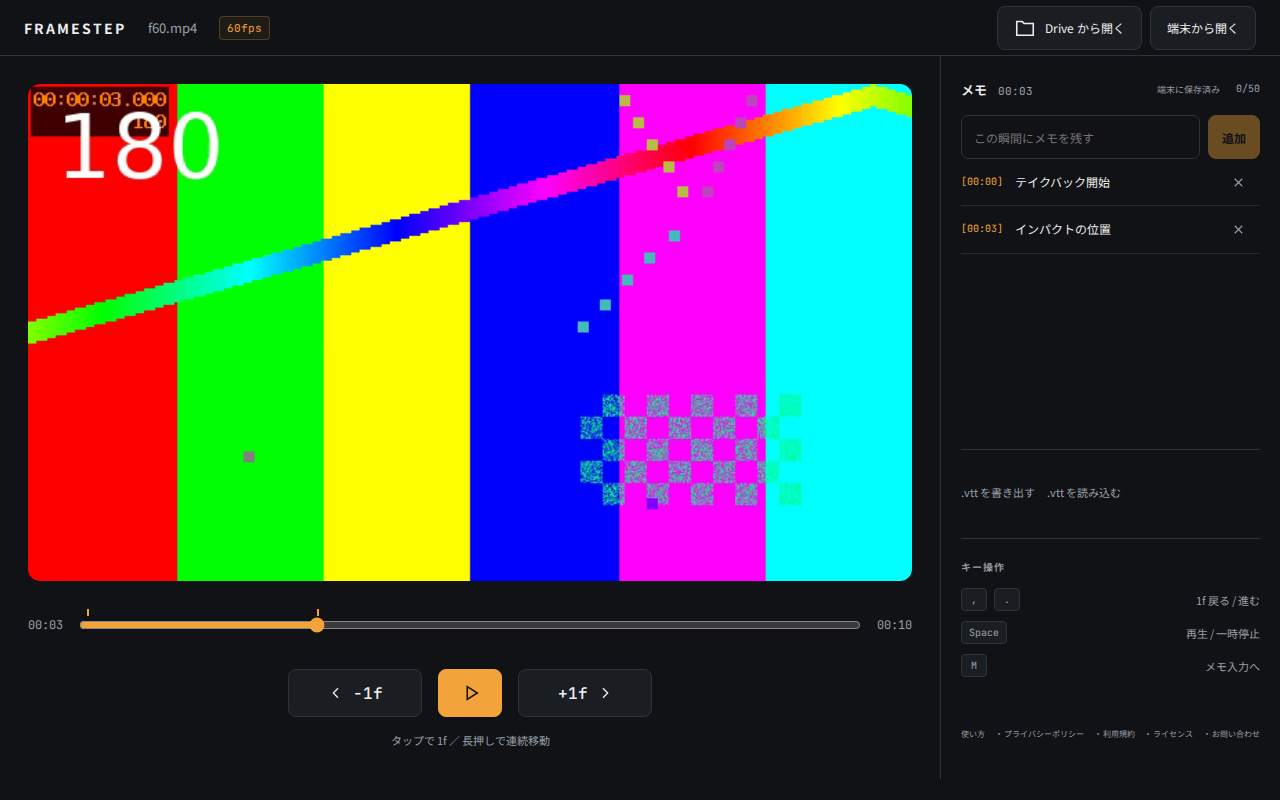
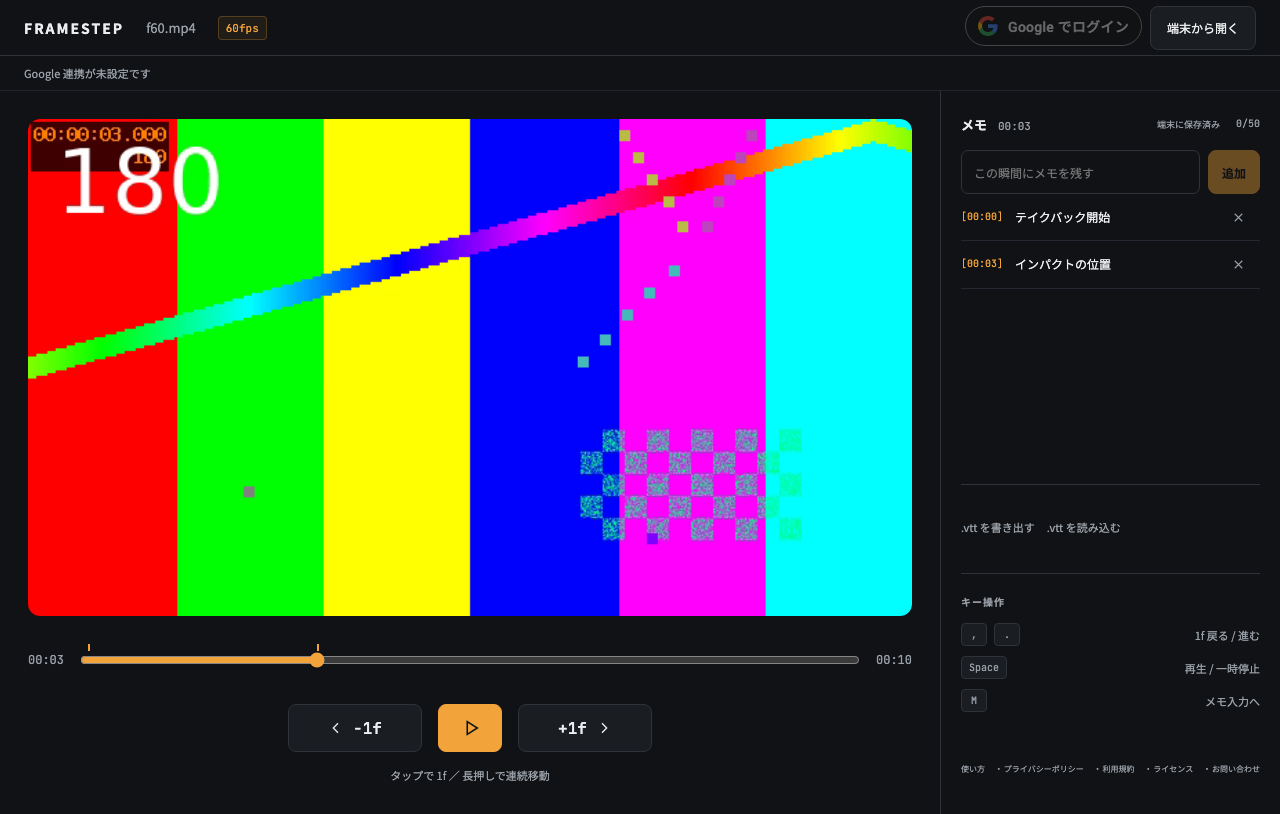
OAuth審査指摘の検証テストV1〜V7とスクリーンショットを追加

diff --git a/tests/e2e/verification.spec.ts b/tests/e2e/verification.spec.ts
@@ -1,0 +1,314 @@
+import { test, expect, type Page } from "@playwright/test";
+import { mkdir, readFile, readdir } from "node:fs/promises";
+import { siteInfo } from "../../src/shared/siteInfo";
+
+const staticPaths = ["/", "/help", "/privacy", "/terms", "/licenses"];
+const oldUrl = "frame-step-player.vercel.app";
+const newUrl = "https://frame-step-player.win";
+// 「Google 」が前に付かない単独の「Drive」
+const bareDrive = /(?<!Google )\bDrive\b/;
+
+async function visibleText(page: Page) {
+  const text = await page.locator("body").innerText();
+  const labels = await page
+    .locator("[aria-label]")
+    .evaluateAll((els) => els.map((el) => el.getAttribute("aria-label")));
+  return text + "\n" + labels.join("\n");
+}
+function noBareDrive(text: string, where: string) {
+  const hits = text
+    .split("\n")
+    .filter((line) => bareDrive.test(line))
+    .map((line) => line.trim());
+  expect(hits, where).toEqual([]);
+}
+
+test("V1: JSなしのトップに Google ユーザーデータの説明と /privacy へのリンク", async ({
+  browser,
+  baseURL,
+}) => {
+  const context = await browser.newContext({
+    javaScriptEnabled: false,
+    baseURL,
+  });
+  const page = await context.newPage();
+  await page.goto("/");
+  const main = page.locator("main");
+  await expect(
+    main.getByRole("heading", {
+      name: "Google ユーザーデータの利用について",
+      exact: true,
+    }),
+  ).toBeVisible();
+  const section = page.locator("#google-user-data");
+  await expect(section).toContainText(
+    "https://www.googleapis.com/auth/drive.file",
+  );
+  await expect(section).toContainText("このアプリで使用する特定のファイルのみ");
+  await expect(section.locator('a[href="/privacy"]')).toHaveCount(1);
+  await expect(main).toContainText("できること");
+  await expect(main.locator('a[href="/help"]').first()).toBeVisible();
+  await expect(
+    main.getByRole("heading", { name: "How we use Google user data" }),
+  ).toBeVisible();
+  await context.close();
+});
+
+test("V2: JSなしの /privacy にデータ種類の表・保存期間・保護・Limited Use", async ({
+  browser,
+  baseURL,
+}) => {
+  const context = await browser.newContext({
+    javaScriptEnabled: false,
+    baseURL,
+  });
+  const page = await context.newPage();
+  await page.goto("/privacy");
+  const main = page.locator("main");
+  const table = main.locator("table").first();
+  await expect(table).toBeVisible();
+  for (const row of [
+    "OAuth アクセストークン",
+    "選んだ動画のメタデータ",
+    "選んだ動画の中身",
+    "メモファイル",
+    "アプリが作ったフォルダ",
+  ])
+    await expect(table).toContainText(row);
+  await expect(main.locator("table")).toHaveCount(2);
+  await expect(
+    main.getByRole("heading", { name: "4. 保存場所と保存期間" }),
+  ).toBeVisible();
+  await expect(
+    main.getByRole("heading", { name: "5. データの保護" }),
+  ).toBeVisible();
+  await expect(main).toContainText("HTTPS");
+  await expect(main).toContainText(
+    "メールアドレス、氏名、プロフィール写真、連絡先",
+  );
+  // Limited Use の一文が「取得・利用する情報」の直後（表より前）にある
+  const callout = main.locator(".policy-callout").first();
+  await expect(callout).toContainText("Limited Use requirements");
+  expect(
+    await callout.evaluate(
+      (el, t) =>
+        !!(el.compareDocumentPosition(t) & Node.DOCUMENT_POSITION_FOLLOWING),
+      await table.elementHandle(),
+    ),
+  ).toBe(true);
+  await expect(main).toContainText(
+    "最終改定日：" + siteInfo.privacyRevisedDate,
+  );
+  await expect(main).toContainText("削除の対象となるデータはありません");
+  await context.close();
+});
+
+test("V3: ログインボタンは公式 G ロゴと文言のみ、直上にプライバシー通知", async ({
+  page,
+}) => {
+  await page.goto("/");
+  const button = page.getByRole("button", {
+    name: "Google でログイン",
+    exact: true,
+  });
+  await expect(button).toHaveCount(1);
+  await expect(button).toHaveText("Google でログイン");
+  const info = await button.evaluate((el) => {
+    const svgs = el.querySelectorAll("svg");
+    const style = getComputedStyle(el);
+    return {
+      svgCount: svgs.length,
+      imgCount: el.querySelectorAll("img").length,
+      fills: [...el.querySelectorAll("svg path")].map((p) =>
+        p.getAttribute("fill"),
+      ),
+      testId: svgs[0]?.getAttribute("data-testid"),
+      background: style.backgroundColor,
+      border: style.borderTopColor,
+      color: style.color,
+      height: style.height,
+      radius: style.borderTopLeftRadius,
+      fontSize: style.fontSize,
+      fontWeight: style.fontWeight,
+      prevClass: el.previousElementSibling?.className,
+      prevPrivacyLink:
+        el.previousElementSibling?.querySelector('a[href="/privacy"]')
+          ?.textContent,
+    };
+  });
+  expect(info).toMatchObject({
+    svgCount: 1,
+    imgCount: 0,
+    fills: ["#EA4335", "#4285F4", "#FBBC05", "#34A853", "none"],
+    testId: "google-g-logo",
+    background: "rgb(19, 19, 20)",
+    border: "rgb(142, 145, 143)",
+    color: "rgb(227, 227, 227)",
+    height: "40px",
+    radius: "20px",
+    fontSize: "14px",
+    fontWeight: "500",
+    prevClass: "privacy-notice",
+    prevPrivacyLink: "プライバシーポリシー",
+  });
+  await expect(page.locator(".privacy-notice")).toContainText(
+    "このアプリは、あなたが選んだ Google ドライブの動画と、アプリが作るメモファイル（.memo.vtt）にだけアクセスします。データは運営者のサーバーに送られません。",
+  );
+  // 未ログインでは「Google ドライブから開く」を出さない
+  await expect(
+    page.getByRole("button", { name: "Google ドライブから開く" }),
+  ).toHaveCount(0);
+  // 最初の画面にも Google ユーザーデータの要点とリンクを表示
+  await expect(
+    page.getByRole("heading", { name: "Google ユーザーデータの利用について" }),
+  ).toBeVisible();
+});
+
+test("V3: ログイン後は「Google ドライブから開く」を表示", async ({ page }) => {
+  await page.route("https://www.googleapis.com/**", (route) =>
+    route.fulfill({ status: 404, body: "{}" }),
+  );
+  await page.goto("/");
+  await page.evaluate(() =>
+    window.__framestep!.openDrive({ fileId: "none", token: "mock-token" }),
+  );
+  await expect(
+    page.getByRole("button", { name: "Google ドライブから開く" }).first(),
+  ).toBeVisible();
+  await expect(
+    page.getByRole("button", { name: "Google でログイン" }),
+  ).toHaveCount(0);
+  noBareDrive(await visibleText(page), "ログイン後の最初の画面");
+});
+
+test("V4: 静的ページ・最初の画面に単独の「Drive」が無い", async ({
+  browser,
+  baseURL,
+  page,
+}) => {
+  const context = await browser.newContext({
+    javaScriptEnabled: false,
+    baseURL,
+  });
+  const staticPage = await context.newPage();
+  for (const path of staticPaths) {
+    await staticPage.goto(path);
+    noBareDrive(await visibleText(staticPage), path);
+    expect(await staticPage.title()).not.toMatch(bareDrive);
+    expect(
+      await staticPage
+        .locator('meta[name="description"]')
+        .getAttribute("content"),
+    ).not.toMatch(bareDrive);
+  }
+  await context.close();
+  await page.goto("/");
+  noBareDrive(await visibleText(page), "最初の画面");
+  noBareDrive(await readFile("README.md", "utf8"), "README.md");
+  // 画面のソース中の文字列リテラル・JSX テキスト（識別子・コメントは除く）
+  for (const dir of [
+    "src/app",
+    "src/features/selection",
+    "src/features/drive",
+    "src/shared",
+  ]) {
+    for (const file of await readdir(dir)) {
+      if (!/\.tsx?$/.test(file)) continue;
+      const source = (await readFile(dir + "/" + file, "utf8"))
+        .replace(/\/\*[\s\S]*?\*\//g, "")
+        .replace(/^\s*\/\/.*$/gm, "");
+      const literals = [
+        ...source.matchAll(/"([^"\n]*)"|`([^`]*)`|>([^<>{}]+)</g),
+      ].map((m) => m[1] ?? m[2] ?? m[3]);
+      noBareDrive(literals.join("\n"), dir + "/" + file);
+    }
+  }
+});
+
+test("V5: 全静的ページと README に商標の表記", async ({ browser, baseURL }) => {
+  const context = await browser.newContext({
+    javaScriptEnabled: false,
+    baseURL,
+  });
+  const page = await context.newPage();
+  for (const path of staticPaths) {
+    await page.goto(path);
+    const footer = page.locator("footer.site-footer");
+    await expect(footer, path).toContainText(siteInfo.trademark);
+    await expect(footer, path).toContainText(siteInfo.trademarkEn);
+  }
+  await context.close();
+  const readme = await readFile("README.md", "utf8");
+  expect(readme.trimEnd().endsWith(siteInfo.trademarkEn)).toBe(true);
+  expect(readme).toContain(siteInfo.trademark);
+});
+
+test("V5: React の最初の画面のフッターにも商標の表記", async ({ page }) => {
+  await page.goto("/");
+  const footer = page.locator("footer.site-footer");
+  await expect(footer).toContainText(siteInfo.trademark);
+  await expect(footer).toContainText(siteInfo.trademarkEn);
+});
+
+test("V7: 公開 URL は frame-step-player.win で vercel.app が残っていない", async ({
+  browser,
+  baseURL,
+}) => {
+  expect(siteInfo.siteUrl).toBe(newUrl);
+  const context = await browser.newContext({
+    javaScriptEnabled: false,
+    baseURL,
+  });
+  const page = await context.newPage();
+  for (const path of staticPaths) {
+    await page.goto(path);
+    const html = await page.content();
+    expect(html, path).not.toContain(oldUrl);
+    await expect(page.locator('link[rel="canonical"]')).toHaveAttribute(
+      "href",
+      newUrl + (path === "/" ? "" : path),
+    );
+  }
+  await context.close();
+  const readme = await readFile("README.md", "utf8");
+  expect(readme).not.toContain(oldUrl);
+  expect(readme).toContain("[" + newUrl + "](" + newUrl + ")");
+  for (const file of [
+    "src/shared/siteInfo.ts",
+    "src/shared/homeContent.ts",
+    "src/app/App.tsx",
+    "scripts/site-content.mjs",
+    "scripts/generate-pages.mjs",
+  ])
+    expect(await readFile(file, "utf8"), file).not.toContain(oldUrl);
+});
+
+test("V6: 390×844 と 1280×800 で最初の画面を撮影", async ({ page }, info) => {
+  await mkdir("docs/screenshots/verification", { recursive: true });
+  for (const [width, height] of [
+    [390, 844],
+    [1280, 800],
+  ]) {
+    await page.setViewportSize({ width, height });
+    await page.goto("/");
+    await expect(
+      page.getByRole("button", { name: "Google でログイン" }),
+    ).toBeVisible();
+    await page.evaluate(() => document.fonts.ready);
+    expect(
+      await page.evaluate(
+        () => document.documentElement.scrollWidth <= innerWidth,
+      ),
+    ).toBe(true);
+    await page.screenshot({
+      path:
+        "docs/screenshots/verification/" +
+        info.project.name +
+        "-" +
+        width +
+        "x" +
+        height +
+        ".png",
+    });
+  }
+});

diff --git a/tests/e2e/player.spec.ts b/tests/e2e/player.spec.ts
@@ -270,8 +270,16 @@ test("E10: Drive再生、multipartとPATCH、メタデータ", async ({ page }) 
     .poll(() => mock.requests.filter((r) => r.method === "PATCH").length)
     .toBe(1);
   await expect(
-    page.getByText("Drive に保存済み", { exact: true }),
+    page.getByText("Google ドライブに保存済み", { exact: true }),
   ).toBeVisible();
+  await expect(
+    page.getByText("メモファイルを Google ドライブで開く ↗", { exact: true }),
+  ).toBeVisible();
+  // 利用者が入力したメモ本文（"Driveテスト"）は除き、画面の文言だけを確認
+  for (const part of ["header", ".save-state", ".memo-files"])
+    expect(await page.locator(part).innerText()).not.toMatch(
+      /(?<!Google )\bDrive\b/,
+    );
 });
 test("E10: 403で代替フォルダへ保存、セッション内で再利用", async ({ page }) => {
   const mock = await driveMock(page, true);
@@ -295,7 +303,7 @@ test("E10: 既存VTT読込・保存失敗後の再試行", async ({ page }) => {
     .getByRole("button", { name: "保存に失敗しました［再試行］" })
     .click();
   await expect(
-    page.getByText("Drive に保存済み", { exact: true }),
+    page.getByText("Google ドライブに保存済み", { exact: true }),
   ).toBeVisible();
   expect(mock.requests.filter((r) => r.method === "PATCH")).toHaveLength(2);
 });
